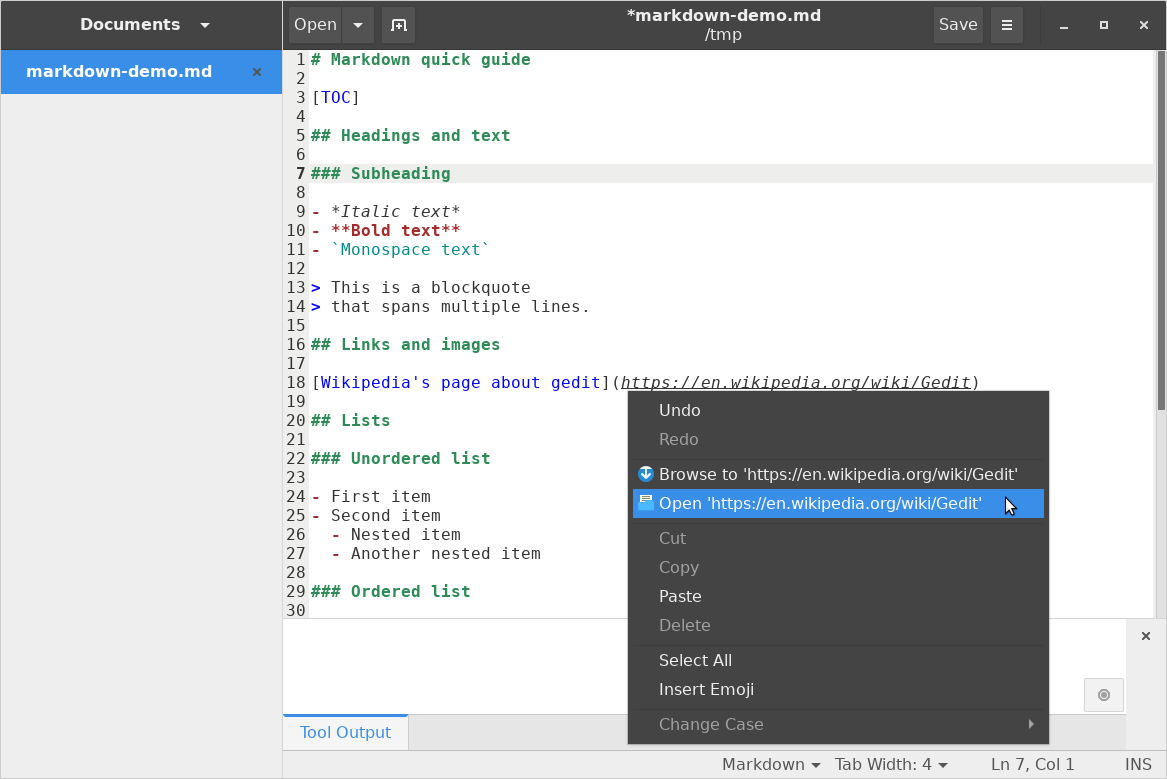
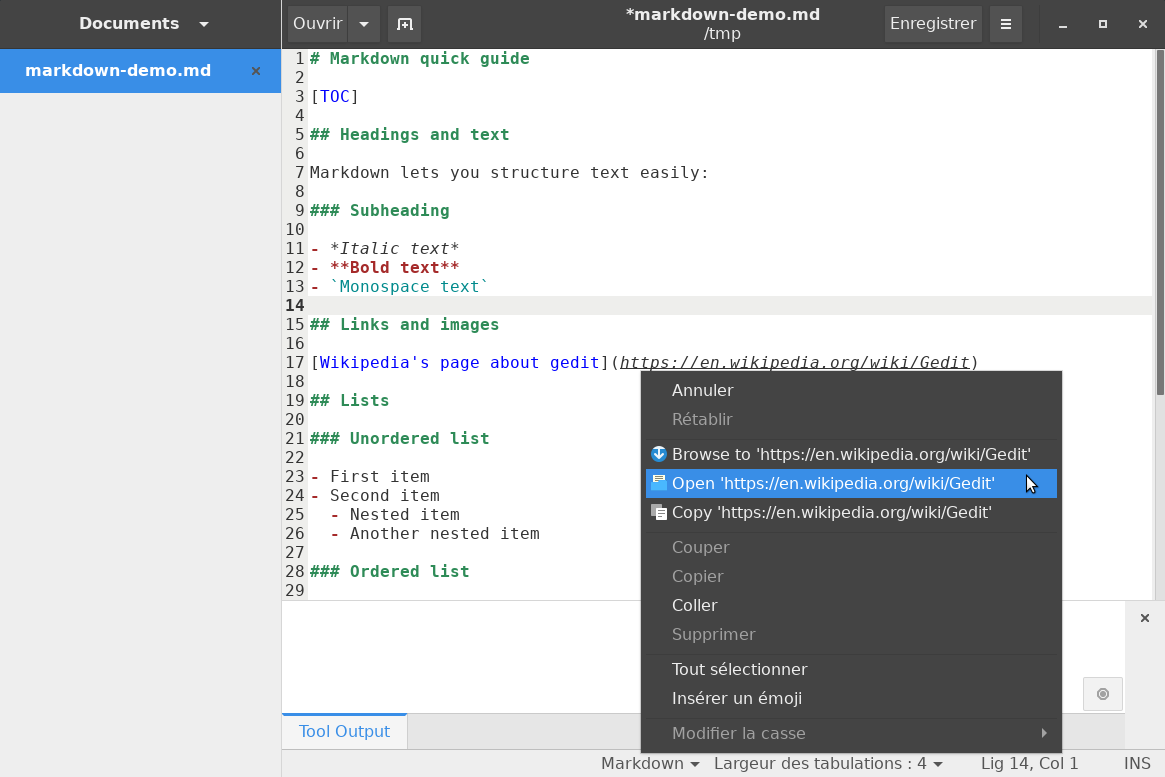
Add context menu item to copy URI to the clipboard

diff --git a/open-uri-context-menu.py b/open-uri-context-menu.py
@@ -1,6 +1,6 @@
 """
 This file is part of Open URI Context Menu.
-Adds context menu actions in gedit to open or browse the URI under the pointer.
+Adds context menu actions in gedit to open, browse or copy the URI under the pointer.
 
 Copyright (C) 2011-2014, 2019, 2025 Jean-Philippe Fleury
 Copyright (C) 2007-2008 Martin Szulecki
@@ -26,7 +26,7 @@ import subprocess
 
 from gettext import gettext as _
 
-from gi.repository import Gedit, Gio, GObject, Gtk, GtkSource
+from gi.repository import Gdk, Gedit, Gio, GObject, Gtk, GtkSource
 
 ACCEPTED_SCHEMES = ["file", "ftp", "sftp", "smb", "dav", "davs", "ssh", "http", "https"]
 RE_DELIM = re.compile(r"[\w#/\?:%@&=+\.'\\~\-']+", re.UNICODE | re.MULTILINE)
@@ -124,6 +124,13 @@ class OpenURIContextMenuPlugin(GObject.Object, Gedit.WindowActivatable):
         if len(displayed_word) > 50:
             displayed_word = displayed_word[:50] + "\u2026"
 
+        copy_uri_item = Gtk.ImageMenuItem(_("Copy '%s'") % (displayed_word))
+        copy_uri_item.set_image(
+            Gtk.Image.new_from_stock(Gtk.STOCK_COPY, Gtk.IconSize.MENU)
+        )
+        copy_uri_item.connect("activate", self.on_copy_uri_activate, word)
+        copy_uri_item.show()
+
         browse_to = False
         if word.startswith("http://") or word.startswith("https://"):
             browse_to = True
@@ -136,7 +143,6 @@ class OpenURIContextMenuPlugin(GObject.Object, Gedit.WindowActivatable):
             browse_uri_item.connect("activate", self.browse_url, word)
             browse_uri_item.show()
 
-        displayed_word = displayed_word.replace("file://", "")
         open_uri_item = Gtk.ImageMenuItem(_("Open '%s'") % (displayed_word))
         open_uri_item.set_image(
             Gtk.Image.new_from_stock(Gtk.STOCK_OPEN, Gtk.IconSize.MENU)
@@ -147,10 +153,17 @@ class OpenURIContextMenuPlugin(GObject.Object, Gedit.WindowActivatable):
         separator = Gtk.SeparatorMenuItem()
         separator.show()
         menu.prepend(separator)
+        menu.prepend(copy_uri_item)
         menu.prepend(open_uri_item)
 
         if browse_to:
             menu.prepend(browse_uri_item)
+        return True
+
+    def on_copy_uri_activate(self, menu_item, uri):
+        clipboard = Gtk.Clipboard.get(Gdk.SELECTION_CLIPBOARD)
+        clipboard.set_text(uri, -1)
+        clipboard.store()
         return True
 
     def on_open_uri_activate(self, menu_item, uri):

diff --git a/LISEZ-MOI.md b/LISEZ-MOI.md
@@ -1,6 +1,10 @@
 ## À propos
 
-«Open URI Context Menu» est un greffon pour gedit, l'éditeur de texte par défaut de Gnome. Ce greffon ajoute deux options dans le menu contextuel lors d'un clic droit sur une URI contenue dans le texte d'un fichier: ouverture dans le navigateur ou ouverture dans gedit pour consultation du code source.
+«Open URI Context Menu» est un greffon pour gedit, l'éditeur de texte par défaut de Gnome. Ce greffon ajoute 3 options dans le menu contextuel lors d'un clic droit sur une URI contenue dans le texte d'un fichier:
+
+- ouverture dans le navigateur
+- ouverture dans gedit pour consultation du code source
+- copie dans le presse-papier
 
 ![Menu contextuel de gedit avec les options du greffon](https://raw.githubusercontent.com/jpfleury/open-uri-context-menu/master/assets/example-context-menu.png)
 

diff --git a/README.md b/README.md
@@ -1,6 +1,10 @@
 ## Overview
 
-"Open URI Context Menu" is a plugin for gedit, the default GNOME text editor. This plugin adds two context menu items when you right-click on a URI present in the file content: open in the browser or open in gedit to view the source code.
+"Open URI Context Menu" is a plugin for gedit, the default GNOME text editor. This plugin adds 3 context menu items when you right-click on a URI present in the file content:
+
+- open in the browser
+- open in gedit to view the source code
+- copy to the clipboard
 
 ![Context menu in gedit with URI options](https://raw.githubusercontent.com/jpfleury/open-uri-context-menu/master/assets/example-context-menu.png)
 
